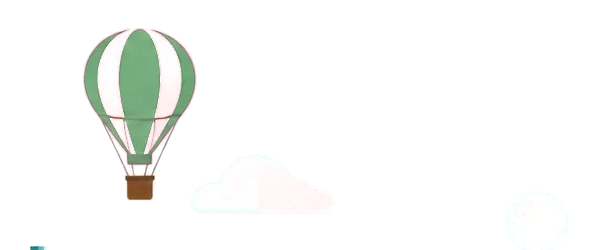
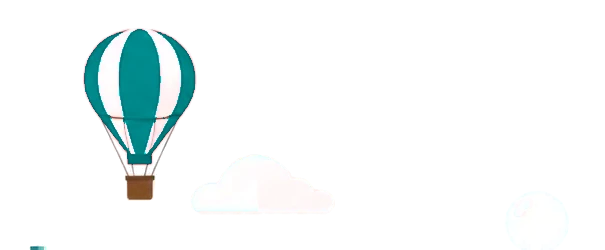
Stavanger-ballongen i logoens mørke grønnfarge (#008789)
Marit 2026-10-29: ballongen skal ha den mørke grønnfargen fra logoen.
Gjelder bybildet (sommer og vinter) og sidehodene; Oslo beholder burgunder.

Changed region(s): [[0.119, 0.112, 0.3273, 0.672]]

diff --git a/verktoy/hero-stavanger-ballong.py b/verktoy/hero-stavanger-ballong.py
@@ -1,0 +1,47 @@
+# Marit 2026-10-29: Stavanger-ballongen skal ha den mørke grønnfargen fra logoen (#008789, den mørke boblen), også i bybildet,
+# så Stavanger-sidene henger sammen med logoen. Oslo beholder burgunder.
+# Kjør ETTER verktoy/hero-stavanger-hus.py og hero-stavanger-silhuett.py (de lager hero-stavanger*.jpg/.webp av Oslo-scenene,
+# der ballongen fortsatt er burgunder). Skriptet er trygt å kjøre flere ganger: det rører bare burgunder piksler.
+# Metode: feltene i ballongen (hue 290–350°, mettet) får logofargen skalert med pikselens lysstyrke relativt til medianen,
+# så medianpikselen blir nøyaktig #008789 og skygge/lys i ballongen beholdes. Hvite striper og brun kurv berøres ikke.
+# Krever Pillow og numpy. Kjør fra repo-roten: python3 verktoy/hero-stavanger-ballong.py
+import os
+import numpy as np
+from PIL import Image
+
+BILDER = os.path.join(os.path.dirname(os.path.abspath(__file__)), '..', 'bilder')
+LOGO_GRONN = np.array([0x00, 0x87, 0x89], float)
+RUTE = (1400, 70, 1550, 245)  # x0, y0, x1, y1 rundt ballongen (målt: x 1419–1530, y 89–224)
+
+
+def smooth(x, lo, hi):
+    t = np.clip((x - lo) / (hi - lo), 0, 1)
+    return t * t * (3 - 2 * t)
+
+
+def omfarg(a):
+    x0, y0, x1, y1 = RUTE
+    d = a[y0:y1, x0:x1].astype(float)
+    p = d / 255
+    mx, mn = p.max(2), p.min(2)
+    dd = np.maximum(mx - mn, 1e-9)
+    r, g, b = p[..., 0], p[..., 1], p[..., 2]
+    h = np.where(mx == r, ((g - b) / dd) % 6, np.where(mx == g, (b - r) / dd + 2, (r - g) / dd + 4)) * 60
+    s = dd / np.maximum(mx, 1e-9)
+    burgunder = (h > 290) & (h < 350)
+    kjerne = burgunder & (s > 0.2)
+    v_median = np.median(mx[kjerne])
+    vekt = (smooth(s, 0.12, 0.30) * burgunder)[..., None]
+    ny = np.clip(LOGO_GRONN * (mx / v_median)[..., None], 0, 255)
+    ut = a.copy()
+    ut[y0:y1, x0:x1] = (d * (1 - vekt) + ny * vekt).round().astype('uint8')
+    return ut, int(kjerne.sum())
+
+
+for navn in ('hero-stavanger', 'hero-stavanger-vinter'):
+    a = np.asarray(Image.open(os.path.join(BILDER, navn + '.jpg')).convert('RGB'))
+    ut, antall = omfarg(a)
+    bilde = Image.fromarray(ut)
+    bilde.save(os.path.join(BILDER, navn + '.jpg'), quality=90, progressive=True, optimize=True)
+    bilde.save(os.path.join(BILDER, navn + '.webp'), quality=82, method=6)
+    print(navn, antall, 'ballongpiksler omfarget')

diff --git a/verktoy/hode-ballong-farger.py b/verktoy/hode-ballong-farger.py
@@ -14,7 +14,7 @@ import numpy as np
 KILDE = 'bilder/hero-scene.webp'
 RUTE = (1335, 60, 1940, 310)
 HIMMEL = np.array([0x9A, 0xD2, 0xD5], float)
-GRONN_HUE = 148 / 360                   # frisk grønn, tydelig forskjellig fra himmelens blågrønne og sidens turkis
+LOGO_GRONN = np.array([0x00, 0x87, 0x89], float)   # den mørke boblen i logoen (Marit 2026-10-29); medianpikselen i feltene blir nøyaktig denne
 BURGUNDER = (290 / 360, 1.0)            # fargetone-intervall for ballongens felter og beltet (hue i HSV, 0–1); brunt (ca. 25°) er utenfor
 
 
@@ -42,12 +42,16 @@ def utsnitt():
 def til_gronn(a):
     ut = a.copy()
     h, w = a.shape[:2]
+    felt = []
     for y in range(h):
         for x in range(w):
             r, g, b = a[y, x] / 255
             hh, s, v = colorsys.rgb_to_hsv(r, g, b)
             if (BURGUNDER[0] <= hh <= BURGUNDER[1] or hh < 8 / 360) and s > 0.15:
-                ut[y, x] = np.array(colorsys.hsv_to_rgb(GRONN_HUE, min(1, s * 1.05), v)) * 255
+                felt.append((y, x, v))
+    v_median = np.median([v for _, _, v in felt])
+    for y, x, v in felt:
+        ut[y, x] = np.clip(LOGO_GRONN * (v / v_median), 0, 255)
     return ut
 
 
